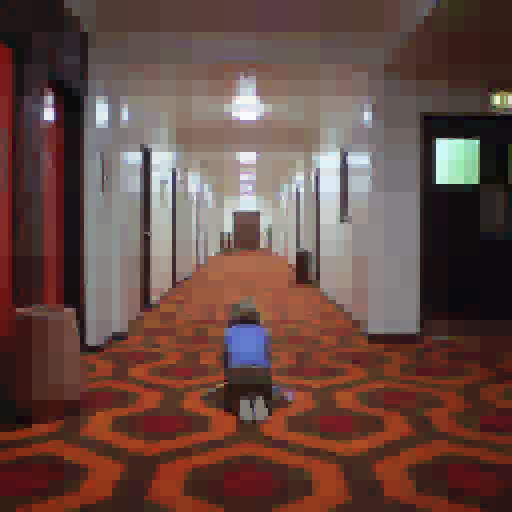
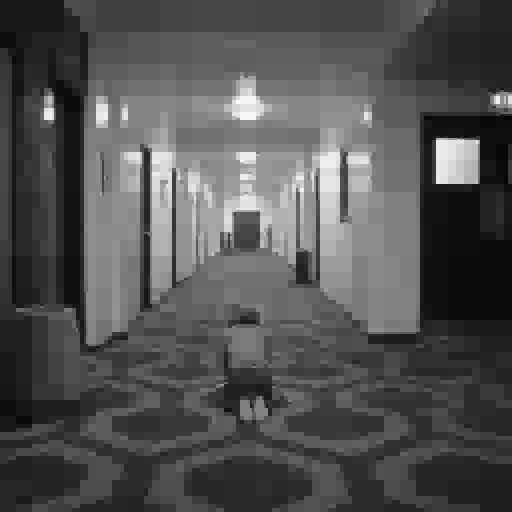
Vesãoo final

diff --git a/comp.m b/comp.m
@@ -1,45 +1,54 @@
 function [ img_out ] = comp( ratio )
-input = imread('kubrick.png');
+input = imread('mario.jpg');
 
-h1=subplot(2,4,1);imshow(input);title('Input');
+img_gray = double(rgb2gray(input));
 
-x = double(input);
+%h1=subplot(2,4,1);imshow(input);title('Input');
 
-rc = Daub_NonStandardDecomposition(x(:,:,1));
-gc = Daub_NonStandardDecomposition(x(:,:,2));
-bc = Daub_NonStandardDecomposition(x(:,:,3));
+%x = double(input);
 
-h2=subplot(2,4,2);imshow(rc);title('Red');
-h3=subplot(2,4,3);imshow(gc);title('Green');
-h4=subplot(2,4,4);imshow(bc);title('Blue');
+%rc = Daub_NonStandardDecomposition(x(:,:,1));
+%gc = Daub_NonStandardDecomposition(x(:,:,2));
+%bc = Daub_NonStandardDecomposition(x(:,:,3));
+
+img_wavelet = Daub_NonStandardDecomposition(img_gray);
+
+%h2=subplot(2,4,2);imshow(rc);title('Red');
+%h3=subplot(2,4,3);imshow(gc);title('Green');
+%h4=subplot(2,4,4);imshow(bc);title('Blue');
 
 %ratio = 0.0050;
 
-rc = compression(rc, ratio);
-gc = compression(gc, ratio);
-bc = compression(bc, ratio);
+img_compressed = compression(img_wavelet, ratio);
+%rc = compression(rc, ratio);
+%gc = compression(gc, ratio);
+%bc = compression(bc, ratio);
 
-h5=subplot(2,4,5);imshow(rc);title('Compressed Red');
-h6=subplot(2,4,6);imshow(gc);title('Compressed Green');
-h7=subplot(2,4,7);imshow(bc);title('Compressed Blue');
+%h5=subplot(2,4,5);imshow(rc);title('Compressed Red');
+%h6=subplot(2,4,6);imshow(gc);title('Compressed Green');
+%h7=subplot(2,4,7);imshow(bc);title('Compressed Blue');
 
-rc = Daub_NonStandardComposition(rc);
-gc = Daub_NonStandardComposition(gc);
-bc = Daub_NonStandardComposition(bc);
+img_composition = Daub_NonStandardComposition(img_compressed);
 
-x = cat(3,rc,gc,bc);
+%rc = Daub_NonStandardComposition(rc);
+%gc = Daub_NonStandardComposition(gc);
+%bc = Daub_NonStandardComposition(bc);
 
-output = uint8(x);
+%x = cat(3,rc,gc,bc);
 
-h8=subplot(2,4,8);imshow(output);title('Output');
+%output = uint8(x);
+img_out = uint8(img_composition);
 
-linkaxes([h1,h2,h3,h4,h5,h6,h7,h8]);%,h6]);
+%h8=subplot(2,4,8);imshow(output);title('Output');
 
-img_out = output;
+%linkaxes([h1,h2,h3,h4,h5,h6,h7,h8]);%,h6]);
+
+%img_out = img_composition;
 
 %imwrite(input,'input.png');
-imwrite(output,'output.png');
+imwrite(img_out,'output.png');
 
+%imshow(img_out);
 
 %err = immse(output,input)
 end

diff --git a/blockSystem.m b/blockSystem.m
@@ -1,32 +1,32 @@
-ratio = 0.00500;
+%ratio = 0.00750;
+format long
+
 dif = 1;
+
+
+%ratio_min = 0.000001;
+%ratio_max = 0.001000;
+
+ratio = 0.0029;
+
+
+%ratio_min = 0.0326001;
+%ratio_max = 0.0327555;
 while (dif ~= 0)
-  
+    
+    %ratio = double((ratio_max + ratio_min)/2.0);
     img_out = comp( ratio );
 
-    [ juca1_1, juca2_1, dif ] = teste_energia();
+    [ juca1_1, juca2_1, dif] = teste_energia();
 
     ratio
-    juca1_1
-    juca2_1
     dif
     
-    if (dif > 60000)
-        ratio = ratio+0.00150;
-    elseif (dif > 6000 && dif < 60000)
-        ratio = ratio+0.00050;
-    elseif (dif > 600 && dif < 6000)
-        ratio = ratio+0.00010;
-    elseif (dif > 0 && dif < 600)
-        ratio = ratio+0.00001;
-    
-    elseif (dif < -60000)
-        ratio = ratio-0.00150;
-    elseif (dif < -6000 && dif > -60000)
-        ratio = ratio-0.00050;
-    elseif (dif < 600 && dif > 6000)
-        ratio = ratio-0.00010;
-    elseif (dif < 0 && dif > 600)
-        ratio = ratio-0.00001;
+    if(dif > 0)
+        ratio = ratio + 0.00004;
+    else
+        ratio = ratio - 0.000001;
     end
+    
+    
 end

diff --git a/quality_test.m b/quality_test.m
@@ -1,10 +1,12 @@
-ref = rgb2gray(imread('kubrick.png'));
+ref = rgb2gray(imread('mario.jpg'));
 
-input1 = rgb2gray(imread('output.png'));
-input2 = rgb2gray(imread('haar.png'));
+%input1 = rgb2gray(imread('output.png'));
+%input2 = rgb2gray(imread('haar.png'));
+input1 = imread('output.png');
+input2 = imread('haar.png');
 
 immse(input1, ref)
-immse(input2, ref)
+immse(input2(:,:,1), ref)
 
 psnr(input1, ref)
-psnr(input2, ref)
+psnr(input2(:,:,1), ref)

diff --git a/teste_energia.m b/teste_energia.m
@@ -1,12 +1,15 @@
-function [ juca1_1, juca2_1, dif ] = teste_energia()
+function [ juca1_1, juca2_1, dif] = teste_energia()
 
 input1 = imread('output.png');
 input2 = imread('haar.png');
 
 
-A = double(rgb2gray(input1));
+%A = double(rgb2gray(input1));
+A = double(input1);
 B = double(rgb2gray(input2));
 
+A = Daub_Decomposition(A);
+B = Daub_Decomposition(B);
 
 juca1_1 = energy(A);
 juca2_1 = energy(B);

diff --git a/haar_teste.m b/haar_teste.m
@@ -1,8 +1,19 @@
 input = imread('kubrick.png');
+
+gray = rgb2gray(input);
+
+input(:,:,1) = gray;
+input(:,:,2) = gray;
+input(:,:,3) = gray;
+
+%input = double(rgb2gray(input));
+
 [CR,BPP] = wcompress('c',input,'haar_out.png','ezw','maxloop',9,'wname','haar');
+CR
+%BPP
 Xc = wcompress('u', 'haar_out.png');
 colormap(pink(255))
 imshow(Xc);
-CR
+%CR
 
 imwrite(Xc,'haar.png');
